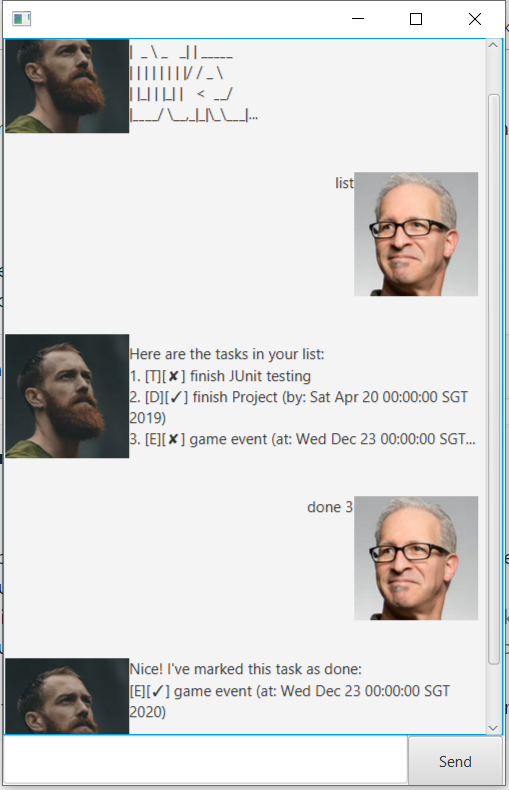
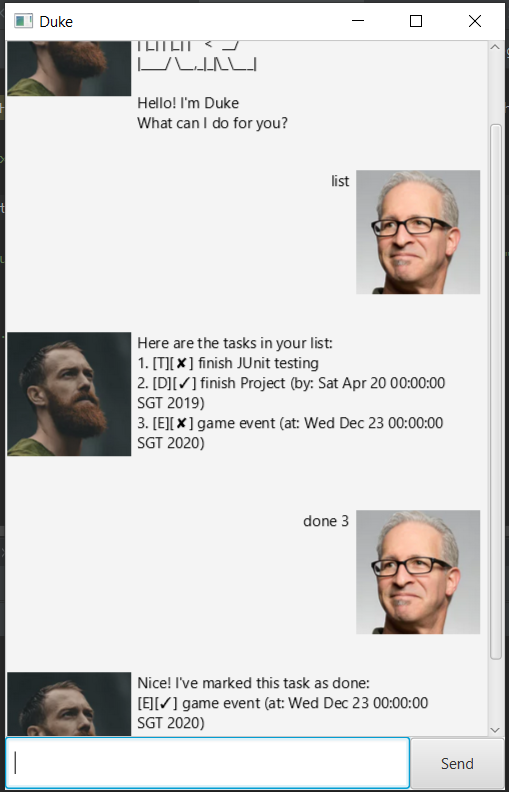
Change dialogbox text to be displayed by a text field instead of a label. Update representative screenshot.

Changed region(s): [[0.0, 0.0, 1.0, 1.0]]

diff --git a/src/main/java/DialogBox.java b/src/main/java/DialogBox.java
@@ -7,26 +7,29 @@ import javafx.fxml.FXML;
 import javafx.fxml.FXMLLoader;
 import javafx.geometry.Pos;
 import javafx.scene.Node;
-import javafx.scene.control.Label;
+import javafx.scene.text.Text;
 import javafx.scene.image.Image;
 import javafx.scene.image.ImageView;
 import javafx.scene.layout.HBox;
+import javafx.scene.text.TextAlignment;
 
 /**
  * An example of a custom control using FXML.
- * This control represents a dialog box consisting of an ImageView to represent the speaker's face and a label
+ * This control represents a dialog box consisting of an ImageView to represent the speaker's face and a text
  * containing text from the speaker.
  */
 public class DialogBox extends HBox {
-    @FXML
-    private Label dialog;
 
     @FXML
-    private ImageView displayPicture;
+    private Text dialog = new Text();
+
+    @FXML
+    private ImageView displayPicture = new ImageView();
 
     private Ui ui = new Ui();
 
     private DialogBox(String text, Image img) {
+
         try {
             FXMLLoader fxmlLoader = new FXMLLoader(MainWindow.class.getResource("/view/DialogBox.fxml"));
             fxmlLoader.setController(this);
@@ -51,11 +54,14 @@ public class DialogBox extends HBox {
     }
 
     static DialogBox getUserDialog(String text, Image img) {
-        return new DialogBox(text, img);
+        var db = new DialogBox(text, img);
+        db.dialog.setTextAlignment(TextAlignment.RIGHT);
+        return db;
     }
 
     static DialogBox getDukeDialog(String text, Image img) {
         var db = new DialogBox(text, img);
+        db.dialog.setTextAlignment(TextAlignment.LEFT);
         db.flip();
         return db;
     }

diff --git a/src/main/java/Main.java b/src/main/java/Main.java
@@ -16,6 +16,7 @@ public class Main extends Application {
     @Override
     public void start(Stage stage) {
         try {
+            stage.setTitle("Duke");
             FXMLLoader fxmlLoader = new FXMLLoader(Main.class.getResource("/view/MainWindow.fxml"));
             AnchorPane ap = fxmlLoader.load();
             Scene scene = new Scene(ap);
